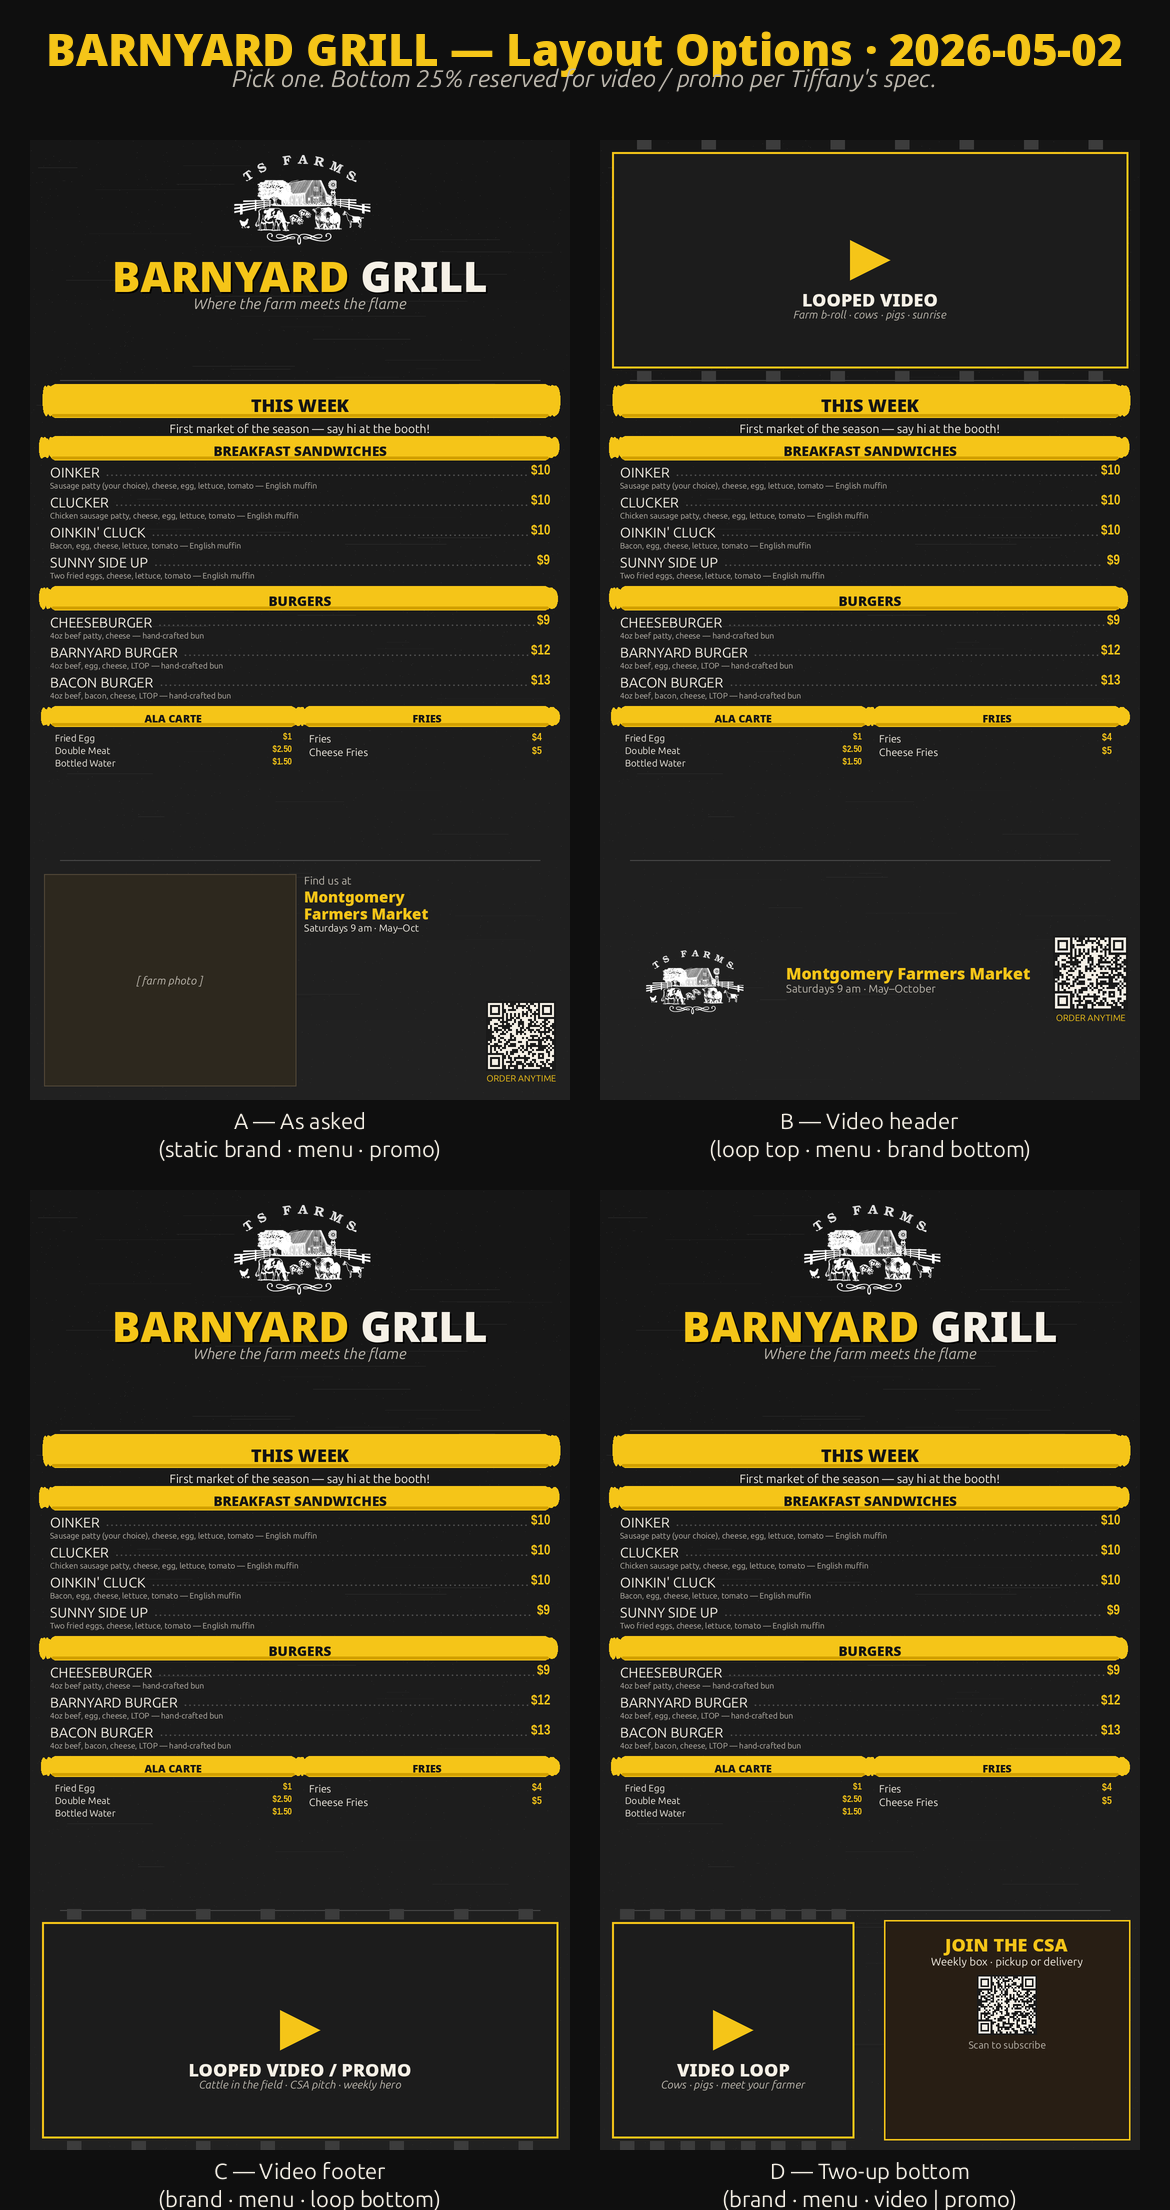
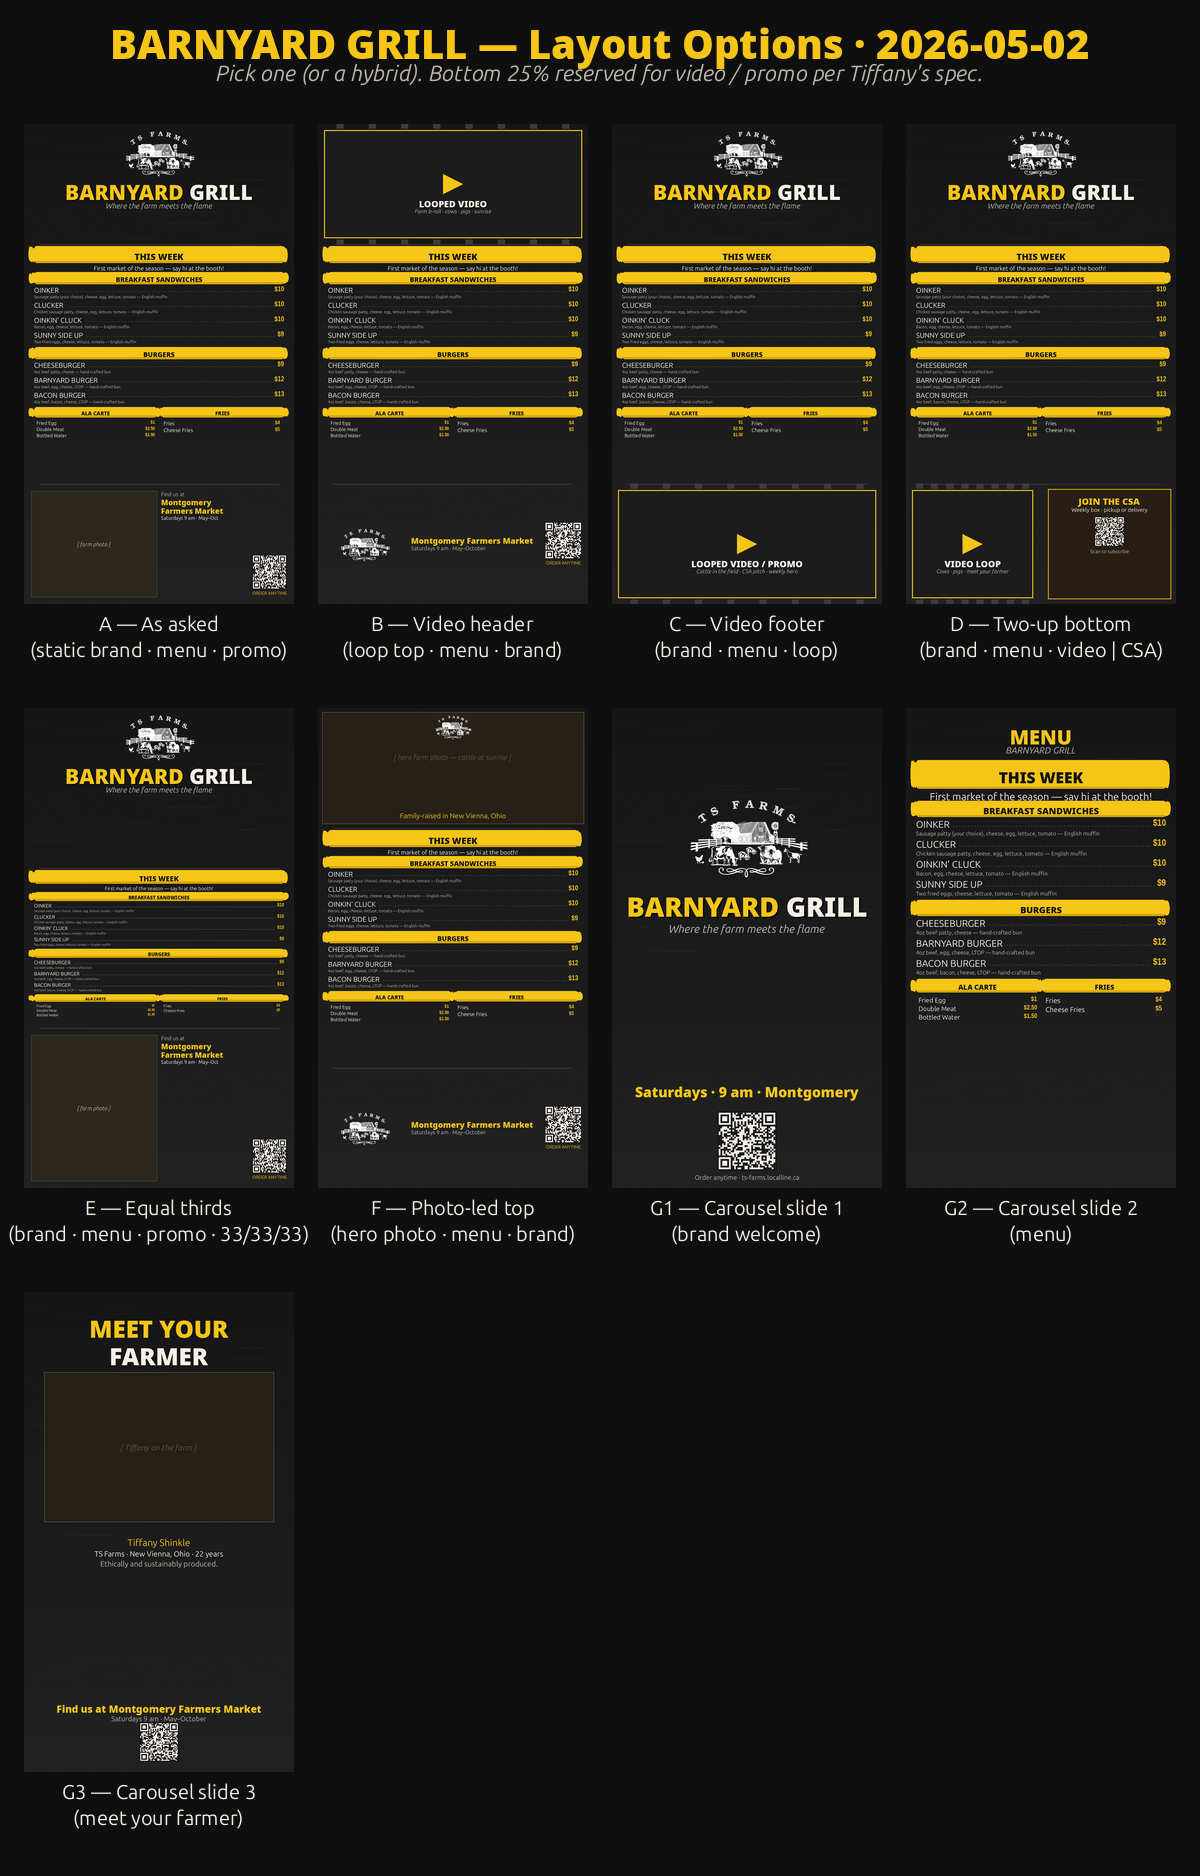
feat(layout): three more layout directions — equal thirds, photo-led, multi-slide carousel
Adds variants E, F, G beyond the four (A–D) shipped in v1.1.0, each
probing a design question we hadn't surfaced:

  E — Equal thirds (33/33/33): tests whether the 50/25/25 weighting
      Tiffany asked for is actually optimal vs equal canvas for
      brand / menu / promo
  F — Photo-led top: replaces the text brand zone with a hero farm
      photo + logo overlay + origin caption, keeping 25/50/25
  G — Multi-slide carousel: fundamentally different paradigm — three
      separate 1080x1920 slides instead of one composite. G1 brand
      welcome, G2 full menu, G3 meet-your-farmer + market info.

The contact sheet now shows all 9 thumbnails (A through G3) in a
4-wide grid for at-a-glance comparison.

Auto-fit logic added to the carousel slide 1 wordmark to prevent the
title from clipping the canvas at large font sizes.

Closes #9

diff --git a/build_layouts.py b/build_layouts.py
@@ -435,47 +435,213 @@ def build_variant_D():
     return img
 
 
-def build_contact_sheet(variants):
-    """2x2 grid of variants at half-resolution with labels."""
-    pad = 30
-    label_h = 60
-    cell_w = W // 2
-    cell_h = H // 2
-    sheet_w = 2 * cell_w + 3 * pad
-    sheet_h = 2 * (cell_h + label_h) + 3 * pad + 80  # extra for title
+# ---- ADDITIONAL ZONE RENDERERS (variants E, F, G) ----
+
+def zone_photo_hero(img, x0, y0, w, h, caption="Family-raised in New Vienna, Ohio"):
+    """Hero farm photo placeholder with TS Farms logo overlaid + caption."""
+    d = ImageDraw.Draw(img)
+    pad = 16
+    # Photo placeholder card
+    d.rectangle((x0+pad, y0+pad, x0+w-pad, y0+h-pad), fill=(38, 32, 24), outline=(80, 70, 55), width=3)
+    # Watermark text deep in the card
+    f_ph = font(F_ITALIC, 28)
+    msg = "[ hero farm photo — cattle at sunrise ]"
+    cw = text_w(d, msg, f_ph)
+    d.text((x0 + (w - cw)//2, y0 + h//2 - 60), msg, font=f_ph, fill=(95, 85, 65))
+    # Logo overlay (centered, smaller)
+    logo = load_brand_logo_white()
+    lw = int(w * 0.22)
+    lh = int(logo.height * (lw / logo.width))
+    logo_resized = logo.resize((lw, lh), Image.LANCZOS)
+    img.paste(logo_resized, (x0 + (w - lw)//2, y0 + 24), logo_resized)
+    # Caption
+    f_cap = font(F_BODY_BOLD, 28)
+    cw = text_w(d, caption, f_cap)
+    d.text((x0 + (w - cw)//2, y0 + h - pad - 50), caption, font=f_cap, fill=YELLOW)
+
+
+# ---- ADDITIONAL VARIANT BUILDERS ----
+
+def build_variant_E():
+    """Equal thirds (33/33/33): brand top, menu middle, static promo bottom."""
+    img = make_chalkboard_bg(W, H)
+    third = H // 3
+    zone_brand(img, 0, 0, W, third)
+    divider(img, third)
+    zone_menu(img, 0, third, W, third)
+    divider(img, 2*third)
+    zone_promo_static(img, 0, 2*third, W, H - 2*third)
+    return img
+
+
+def build_variant_F():
+    """Photo-led top (25/50/25): hero photo + logo overlay top, menu middle, brand+QR bottom."""
+    img = make_chalkboard_bg(W, H)
+    h_top = int(H * 0.25)
+    h_mid = int(H * 0.50)
+    h_bot = H - h_top - h_mid
+    zone_photo_hero(img, 0, 0, W, h_top)
+    divider(img, h_top)
+    zone_menu(img, 0, h_top, W, h_mid)
+    divider(img, h_top + h_mid)
+    zone_logo_qr(img, 0, h_top + h_mid, W, h_bot)
+    return img
+
+
+def build_variant_G_slide1():
+    """Carousel slide 1: brand welcome — full-screen logo + tagline + CTA."""
+    img = make_chalkboard_bg(W, H)
+    d = ImageDraw.Draw(img)
+    # Centered logo
+    logo = load_brand_logo_white()
+    lw = int(W * 0.72)
+    lh = int(logo.height * (lw / logo.width))
+    logo_resized = logo.resize((lw, lh), Image.LANCZOS)
+    logo_y = int(H * 0.18)
+    img.paste(logo_resized, ((W - lw)//2, logo_y), logo_resized)
+    # BARNYARD GRILL wordmark — auto-fit to 92% of canvas width
+    target_w = int(W * 0.92)
+    fb_size = 140
+    while fb_size > 40:
+        f_b = font(F_DISPLAY, fb_size)
+        if text_w(d, "BARNYARD GRILL", f_b) <= target_w:
+            break
+        fb_size -= 4
+    bw = text_w(d, "BARNYARD ", f_b)
+    gw = text_w(d, "GRILL", f_b)
+    sx = (W - (bw + gw)) // 2
+    ty = logo_y + lh + 40
+    d.text((sx+5, ty+5), "BARNYARD", font=f_b, fill=(0,0,0))
+    d.text((sx, ty), "BARNYARD", font=f_b, fill=YELLOW)
+    d.text((sx+bw+5, ty+5), "GRILL", font=f_b, fill=(0,0,0))
+    d.text((sx+bw, ty), "GRILL", font=f_b, fill=INK)
+    # Tagline
+    f_tag = font(F_ITALIC, 44)
+    tag = "Where the farm meets the flame"
+    tw = text_w(d, tag, f_tag)
+    d.text(((W - tw)//2, ty + fb_size + 30), tag, font=f_tag, fill=INK_DIM)
+    # CTA at bottom
+    f_cta = font(F_DISPLAY, 56)
+    cta = "Saturdays · 9 am · Montgomery"
+    cw = text_w(d, cta, f_cta)
+    d.text(((W - cw)//2, int(H * 0.78)), cta, font=f_cta, fill=YELLOW)
+    # QR
+    qr_size = 240
+    qr = make_qr("https://ts-farms.localline.ca", qr_size)
+    img.paste(qr, ((W - qr_size)//2, int(H * 0.84)))
+    f_qrc = font(F_BODY_BOLD, 26)
+    cap = "Order anytime · ts-farms.localline.ca"
+    cw = text_w(d, cap, f_qrc)
+    d.text(((W - cw)//2, int(H * 0.84) + qr_size + 10), cap, font=f_qrc, fill=INK_DIM)
+    return img
+
+
+def build_variant_G_slide2():
+    """Carousel slide 2: the full menu, more breathable."""
+    img = make_chalkboard_bg(W, H)
+    d = ImageDraw.Draw(img)
+    # Compact header
+    f_h = font(F_DISPLAY, 80)
+    head = "MENU"
+    hw = text_w(d, head, f_h)
+    d.text(((W - hw)//2, 60), head, font=f_h, fill=YELLOW)
+    f_sub = font(F_ITALIC, 36)
+    sub = "BARNYARD GRILL"
+    sw = text_w(d, sub, f_sub)
+    d.text(((W - sw)//2, 60 + 80 + 8), sub, font=f_sub, fill=INK_DIM)
+    # The menu zone takes most of the canvas
+    zone_menu(img, 0, 200, W, H - 280)
+    return img
+
+
+def build_variant_G_slide3():
+    """Carousel slide 3: 'meet your farmer' + market info."""
+    img = make_chalkboard_bg(W, H)
+    d = ImageDraw.Draw(img)
+    # Top: title
+    f_h = font(F_DISPLAY, 96)
+    head = "MEET YOUR"
+    hw = text_w(d, head, f_h)
+    d.text(((W - hw)//2, 80), head, font=f_h, fill=YELLOW)
+    head2 = "FARMER"
+    hw2 = text_w(d, head2, f_h)
+    d.text(((W - hw2)//2, 80 + 110), head2, font=f_h, fill=INK)
+    # Photo card
+    pad = 80
+    photo_y = 320
+    photo_h = 600
+    d.rectangle((pad, photo_y, W - pad, photo_y + photo_h), fill=(38, 32, 24), outline=(80, 70, 55), width=3)
+    f_ph = font(F_ITALIC, 32)
+    msg = "[ Tiffany on the farm ]"
+    cw = text_w(d, msg, f_ph)
+    d.text(((W - cw)//2, photo_y + photo_h//2 - 16), msg, font=f_ph, fill=(95, 85, 65))
+    # Bio
+    bio_y = photo_y + photo_h + 60
+    f_b = font(F_BODY_BOLD, 38)
+    f_d = font(F_BODY, 30)
+    line1 = "Tiffany Shinkle"
+    cw = text_w(d, line1, f_b)
+    d.text(((W - cw)//2, bio_y), line1, font=f_b, fill=YELLOW)
+    line2 = "TS Farms · New Vienna, Ohio · 22 years"
+    cw = text_w(d, line2, f_d)
+    d.text(((W - cw)//2, bio_y + 50), line2, font=f_d, fill=INK)
+    line3 = "Ethically and sustainably produced."
+    cw = text_w(d, line3, f_d)
+    d.text(((W - cw)//2, bio_y + 90), line3, font=f_d, fill=INK_DIM)
+    # Bottom: market + QR row
+    f_m = font(F_DISPLAY, 40)
+    market = "Find us at Montgomery Farmers Market"
+    cw = text_w(d, market, f_m)
+    d.text(((W - cw)//2, H - 280), market, font=f_m, fill=YELLOW)
+    f_md = font(F_BODY, 28)
+    days = "Saturdays 9 am · May–October"
+    cw = text_w(d, days, f_md)
+    d.text(((W - cw)//2, H - 230), days, font=f_md, fill=INK_DIM)
+    qr_size = 160
+    qr = make_qr("https://ts-farms.localline.ca", qr_size)
+    img.paste(qr, ((W - qr_size)//2, H - 200))
+    return img
+
+
+def build_contact_sheet(items):
+    """Grid of variants at thumbnail resolution with labels.
+
+    items: list of (label, image) tuples. Auto-grids into 4 columns.
+    """
+    cols = 4
+    rows = (len(items) + cols - 1) // cols
+    pad = 24
+    label_h = 80
+    cell_w = W // 4
+    cell_h = H // 4
+    sheet_w = cols * cell_w + (cols + 1) * pad
+    sheet_h = rows * (cell_h + label_h) + (rows + 1) * pad + 100  # +100 for title
     sheet = Image.new("RGB", (sheet_w, sheet_h), (15, 15, 15))
     d = ImageDraw.Draw(sheet)
     # title
-    f_title = font(F_DISPLAY, 44)
+    f_title = font(F_DISPLAY, 40)
     title = "BARNYARD GRILL — Layout Options · 2026-05-02"
     tw = text_w(d, title, f_title)
-    d.text(((sheet_w - tw)//2, 18), title, font=f_title, fill=YELLOW)
-    # subtitle
-    f_sub = font(F_ITALIC, 24)
-    sub = "Pick one. Bottom 25% reserved for video / promo per Tiffany's spec."
+    d.text(((sheet_w - tw)//2, 16), title, font=f_title, fill=YELLOW)
+    f_sub = font(F_ITALIC, 22)
+    sub = "Pick one (or a hybrid). Bottom 25% reserved for video / promo per Tiffany's spec."
     sw = text_w(d, sub, f_sub)
-    d.text(((sheet_w - sw)//2, 64), sub, font=f_sub, fill=INK_DIM)
+    d.text(((sheet_w - sw)//2, 60), sub, font=f_sub, fill=INK_DIM)
 
-    labels = [
-        "A — As asked\n(static brand · menu · promo)",
-        "B — Video header\n(loop top · menu · brand bottom)",
-        "C — Video footer\n(brand · menu · loop bottom)",
-        "D — Two-up bottom\n(brand · menu · video | promo)",
-    ]
-    f_label = font(F_BODY_BOLD, 22)
+    f_label = font(F_BODY_BOLD, 20)
 
-    positions = [(0,0),(1,0),(0,1),(1,1)]
-    for (col, row), variant, label in zip(positions, variants, labels):
+    for idx, (label, variant) in enumerate(items):
+        col = idx % cols
+        row = idx // cols
         x = pad + col * (cell_w + pad)
-        y = 110 + pad + row * (cell_h + label_h + pad)
+        y = 100 + pad + row * (cell_h + label_h + pad)
         small = variant.resize((cell_w, cell_h), Image.LANCZOS)
         sheet.paste(small, (x, y))
-        # label below
         ly = y + cell_h + 8
         for line in label.split("\n"):
             lw = text_w(d, line, f_label)
             d.text((x + (cell_w - lw)//2, ly), line, font=f_label, fill=INK)
-            ly += 28
+            ly += 26
     return sheet
 
 
@@ -487,6 +653,21 @@ if __name__ == "__main__":
     B = build_variant_B(); B.save(os.path.join(OUT_DIR, f"menu_{MARKET_DATE}_variant_B.png"), "PNG", optimize=True); print("  B done")
     C = build_variant_C(); C.save(os.path.join(OUT_DIR, f"menu_{MARKET_DATE}_variant_C.png"), "PNG", optimize=True); print("  C done")
     D = build_variant_D(); D.save(os.path.join(OUT_DIR, f"menu_{MARKET_DATE}_variant_D.png"), "PNG", optimize=True); print("  D done")
-    sheet = build_contact_sheet([A, B, C, D])
-    sheet.save(os.path.join(OUT_DIR, "contact_sheet.png"), "PNG", optimize=True); print("  contact_sheet done")
-    print(f"\nWrote 5 files to {OUT_DIR}")
+    E = build_variant_E(); E.save(os.path.join(OUT_DIR, f"menu_{MARKET_DATE}_variant_E.png"), "PNG", optimize=True); print("  E done")
+    F = build_variant_F(); F.save(os.path.join(OUT_DIR, f"menu_{MARKET_DATE}_variant_F.png"), "PNG", optimize=True); print("  F done")
+    G1 = build_variant_G_slide1(); G1.save(os.path.join(OUT_DIR, f"menu_{MARKET_DATE}_variant_G_slide1.png"), "PNG", optimize=True); print("  G1 done")
+    G2 = build_variant_G_slide2(); G2.save(os.path.join(OUT_DIR, f"menu_{MARKET_DATE}_variant_G_slide2.png"), "PNG", optimize=True); print("  G2 done")
+    G3 = build_variant_G_slide3(); G3.save(os.path.join(OUT_DIR, f"menu_{MARKET_DATE}_variant_G_slide3.png"), "PNG", optimize=True); print("  G3 done")
+    sheet = build_contact_sheet([
+        ("A — As asked\n(static brand · menu · promo)", A),
+        ("B — Video header\n(loop top · menu · brand)", B),
+        ("C — Video footer\n(brand · menu · loop)", C),
+        ("D — Two-up bottom\n(brand · menu · video | CSA)", D),
+        ("E — Equal thirds\n(brand · menu · promo · 33/33/33)", E),
+        ("F — Photo-led top\n(hero photo · menu · brand)", F),
+        ("G1 — Carousel slide 1\n(brand welcome)", G1),
+        ("G2 — Carousel slide 2\n(menu)", G2),
+        ("G3 — Carousel slide 3\n(meet your farmer)", G3),
+    ])
+    sheet.save(os.path.join(OUT_DIR, "contact_sheet.png"), "PNG", optimize=True); print("  contact_sheet done (9 thumbnails)")
+    print(f"\nWrote 10 files to {OUT_DIR}")
